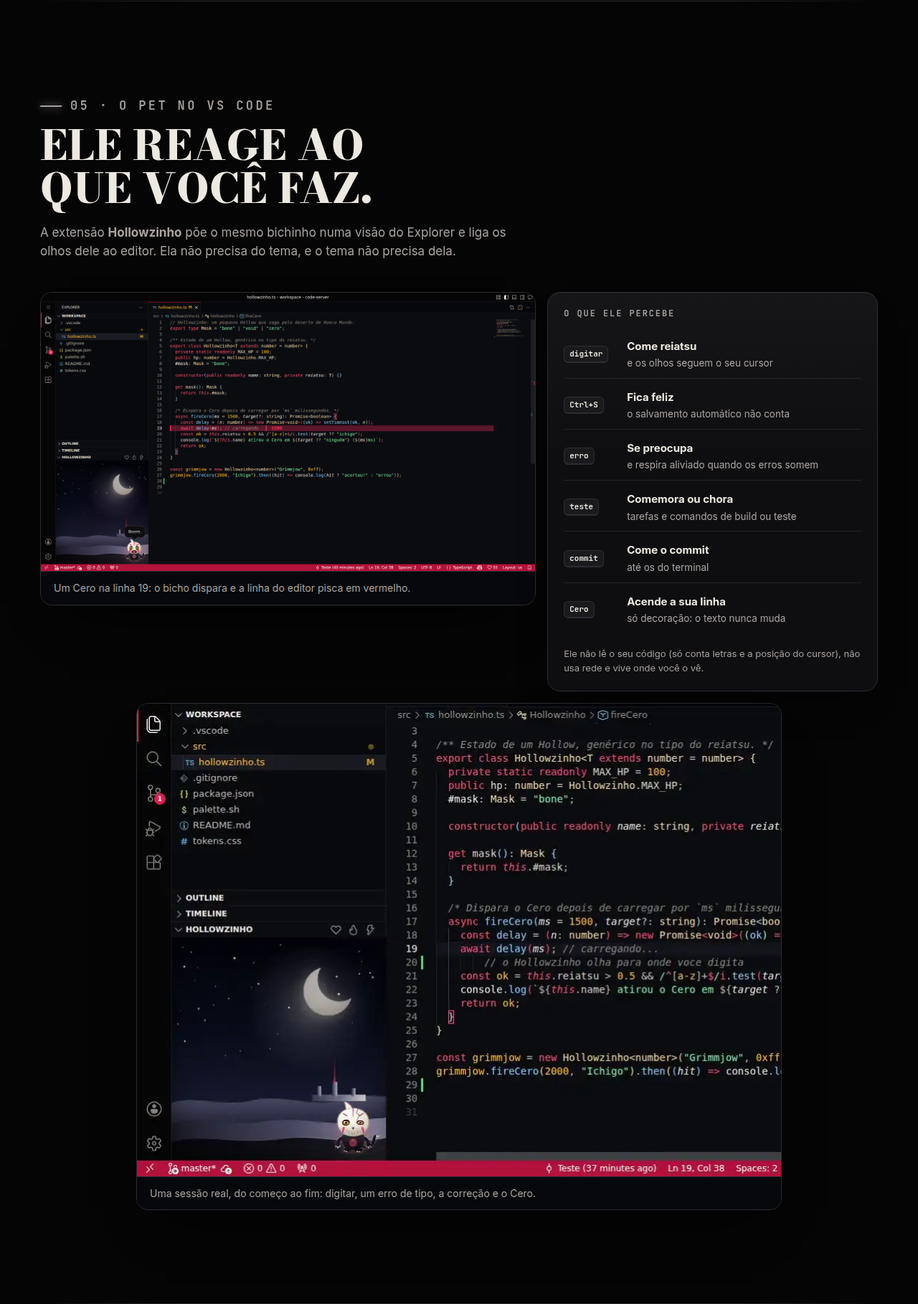
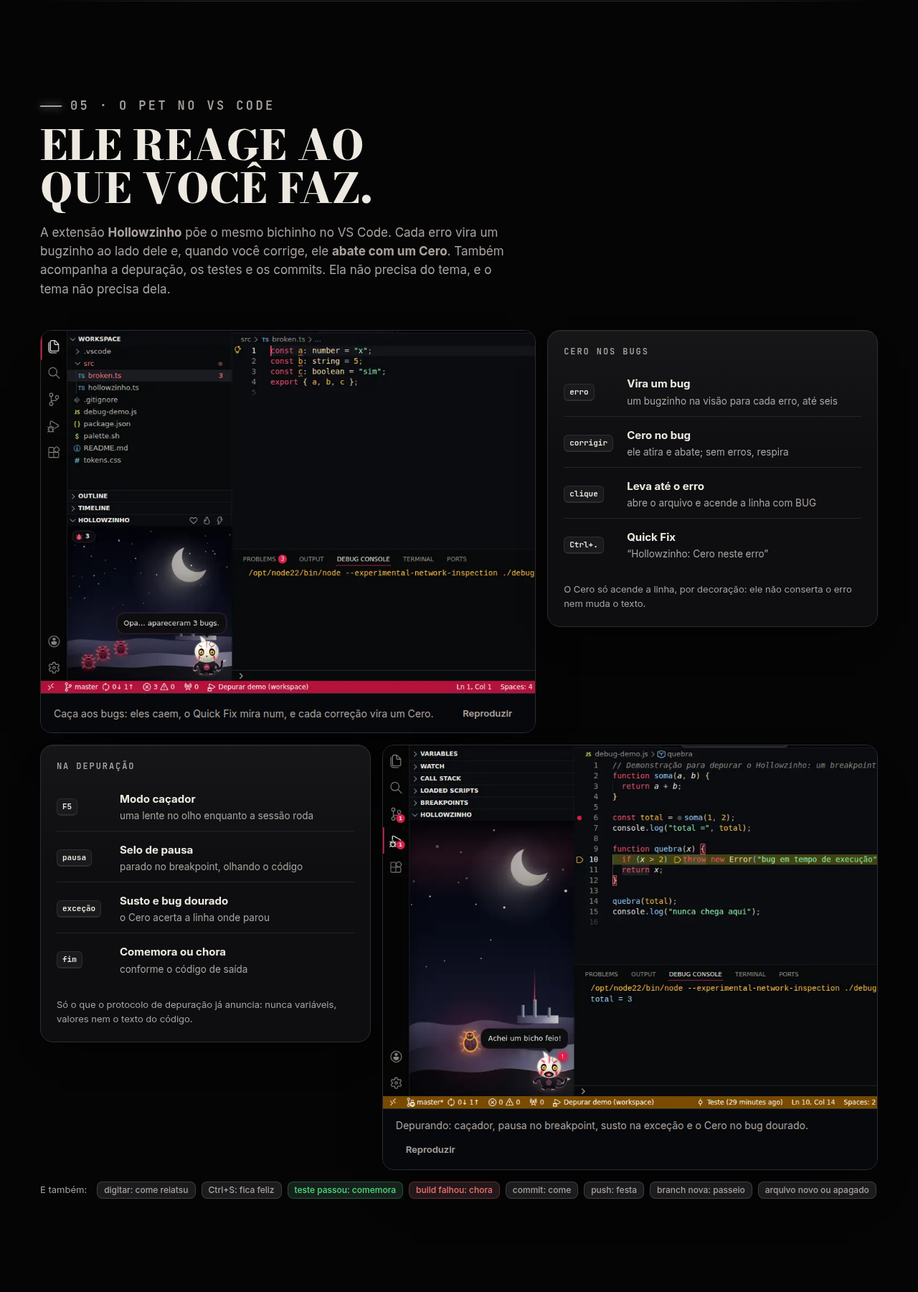
docs: bugs, depuração e Quick Fix nos READMEs, na página e nas gravações
Gravações e prints de um VS Code de verdade com o depurador JavaScript: a caça
aos bugs, o Quick Fix, a pausa, a exceção e o Cero no bug dourado. Os WebP foram
gravados quadro a quadro (screencast em PNG), sem o VP8 do vídeo, que estragava o
degradê escuro da cena. A página ganha dois blocos (bugs e depuração) com botão
de pausar a gravação, que nasce parada com movimento reduzido; o bundle também
embute o `data-poster`. README da extensão reescrito: o que o Cero faz e não faz,
a dica da Barra Lateral Secundária, privacidade, limites e as 19 configurações.
Saem as gravações antigas, que não mostravam os bugs.

Claude-Session: https://claude.ai/code/session_01RdFbfqNsTQthJr1iuE4Xc4

diff --git a/index.html b/index.html
@@ -472,32 +472,56 @@
   <header class="sec-head">
     <p class="hm-eyebrow">05 · O pet no VS Code</p>
     <h2 id="t-vs" class="hm-display">Ele reage ao que você faz.</h2>
-    <p>A extensão <b>Hollowzinho</b> põe o mesmo bichinho numa visão do Explorer e liga os olhos dele ao editor. Ela não precisa do tema, e o tema não precisa dela.</p>
+    <p>A extensão <b>Hollowzinho</b> põe o mesmo bichinho no VS Code. Cada erro vira um bugzinho ao lado dele e, quando você corrige, ele <b>abate com um Cero</b>. Também acompanha a depuração, os testes e os commits. Ela não precisa do tema, e o tema não precisa dela.</p>
   </header>
 
   <div class="vs-grid">
-    <figure class="shot">
-      <img src="vscode/pet/docs/cero.png" width="1600" height="900" loading="lazy" alt="VS Code com o Hollowzinho no Explorer disparando um Cero: a linha 19 do editor pisca em vermelho com a palavra CERO no fim">
-      <figcaption>Um Cero na linha 19: o bicho dispara e a linha do editor pisca em vermelho.</figcaption>
+    <figure class="shot" data-anim data-poster="vscode/pet/docs/bugs-poster.webp">
+      <img src="vscode/pet/docs/bugs.webp" width="900" height="660" loading="lazy" alt="Gravação no VS Code: três bugs caem na visão do pet, um Quick Fix mira num deles, e cada correção vira um Cero que abate o bug até restarem zero">
+      <figcaption>Caça aos bugs: eles caem, o Quick Fix mira num, e cada correção vira um Cero.</figcaption>
     </figure>
     <div class="hm-surface hm-card how">
-      <h3>O que ele percebe</h3>
+      <h3>Cero nos bugs</h3>
       <ul class="how-list">
-        <li><span class="hm-kbd">digitar</span><div><b>Come reiatsu</b><span>e os olhos seguem o seu cursor</span></div></li>
-        <li><span class="hm-kbd">Ctrl+S</span><div><b>Fica feliz</b><span>o salvamento automático não conta</span></div></li>
-        <li><span class="hm-kbd">erro</span><div><b>Se preocupa</b><span>e respira aliviado quando os erros somem</span></div></li>
-        <li><span class="hm-kbd">teste</span><div><b>Comemora ou chora</b><span>tarefas e comandos de build ou teste</span></div></li>
-        <li><span class="hm-kbd">commit</span><div><b>Come o commit</b><span>até os do terminal</span></div></li>
-        <li><span class="hm-kbd">Cero</span><div><b>Acende a sua linha</b><span>só decoração: o texto nunca muda</span></div></li>
+        <li><span class="hm-kbd">erro</span><div><b>Vira um bug</b><span>um bugzinho na visão para cada erro, até seis</span></div></li>
+        <li><span class="hm-kbd">corrigir</span><div><b>Cero no bug</b><span>ele atira e abate; sem erros, respira</span></div></li>
+        <li><span class="hm-kbd">clique</span><div><b>Leva até o erro</b><span>abre o arquivo e acende a linha com BUG</span></div></li>
+        <li><span class="hm-kbd">Ctrl+.</span><div><b>Quick Fix</b><span>“Hollowzinho: Cero neste erro”</span></div></li>
       </ul>
-      <p class="muted small tight">Ele não lê o seu código (só conta letras e a posição do cursor), não usa rede e vive onde você o vê.</p>
+      <p class="muted small tight">O Cero só acende a linha, por decoração: ele não conserta o erro nem muda o texto.</p>
     </div>
   </div>
 
-  <figure class="shot shot--wide">
-    <img src="vscode/pet/docs/demo.webp" width="900" height="660" loading="lazy" alt="Gravação de uma sessão no VS Code: o bicho olha o cursor enquanto se digita, se preocupa com um erro de tipo, respira quando ele é corrigido e dispara um Cero na linha">
-    <figcaption>Uma sessão real, do começo ao fim: digitar, um erro de tipo, a correção e o Cero.</figcaption>
-  </figure>
+  <div class="vs-grid vs-grid--flip">
+    <div class="hm-surface hm-card how">
+      <h3>Na depuração</h3>
+      <ul class="how-list">
+        <li><span class="hm-kbd">F5</span><div><b>Modo caçador</b><span>uma lente no olho enquanto a sessão roda</span></div></li>
+        <li><span class="hm-kbd">pausa</span><div><b>Selo de pausa</b><span>parado no breakpoint, olhando o código</span></div></li>
+        <li><span class="hm-kbd">exceção</span><div><b>Susto e bug dourado</b><span>o Cero acerta a linha onde parou</span></div></li>
+        <li><span class="hm-kbd">fim</span><div><b>Comemora ou chora</b><span>conforme o código de saída</span></div></li>
+      </ul>
+      <p class="muted small tight">Só o que o protocolo de depuração já anuncia: nunca variáveis, valores nem o texto do código.</p>
+    </div>
+    <figure class="shot" data-anim data-poster="vscode/pet/docs/debug-poster.webp">
+      <img src="vscode/pet/docs/debug.webp" width="900" height="660" loading="lazy" alt="Gravação de uma depuração no VS Code: o pet em modo caçador, o breakpoint, o passo, a exceção com o susto e o bug dourado, e o Cero que o abate">
+      <figcaption>Depurando: caçador, pausa, susto na exceção e Cero no bug dourado.</figcaption>
+    </figure>
+  </div>
+
+  <div class="vs-more">
+    <p class="muted small">E também:</p>
+    <ul class="row chips" aria-label="Outras reações">
+      <li class="hm-chip">digitar: come reiatsu</li>
+      <li class="hm-chip">Ctrl+S: fica feliz</li>
+      <li class="hm-chip hm-chip--ok">teste passou: comemora</li>
+      <li class="hm-chip hm-chip--danger">build falhou: chora</li>
+      <li class="hm-chip">commit: come</li>
+      <li class="hm-chip">push: festa</li>
+      <li class="hm-chip">branch nova: passeio</li>
+      <li class="hm-chip">arquivo novo ou apagado</li>
+    </ul>
+  </div>
 </section>
 
 <!-- ═════════════ INSTALAR ═════════════ -->

diff --git a/site/site.js b/site/site.js
@@ -260,6 +260,26 @@
     wrap.appendChild(b);
   });
 
+  /* ───────── gravações do VS Code: pausa e movimento reduzido ───────── */
+  $$("figure[data-anim]").forEach((fig) => {
+    const img = $("img", fig);
+    const poster = fig.dataset.poster;
+    if (!img || !poster) return;
+    const moving = img.getAttribute("src");
+    const b = document.createElement("button");
+    b.type = "button";
+    b.className = "hm-btn hm-btn--sm hm-btn--ghost anim-toggle";
+    const set = (on) => {
+      img.src = on ? moving : poster;
+      b.textContent = on ? "Pausar" : "Reproduzir";
+      b.setAttribute("aria-label", on ? "Pausar a gravação" : "Reproduzir a gravação");
+      b.dataset.on = on ? "1" : "";
+    };
+    b.addEventListener("click", () => set(!b.dataset.on));
+    ($("figcaption", fig) || fig).appendChild(b);
+    set(!reduce);
+  });
+
   /* ───────── controles do pet ───────── */
   (function pet() {
     const main = $("hollow-pet:not([inline])");

diff --git a/site/site.css b/site/site.css
@@ -663,6 +663,41 @@ h3 + .row {
   max-width: 900px;
   margin-inline: auto;
 }
+.vs-grid + .vs-grid,
+.vs-more {
+  margin-top: 16px;
+}
+.vs-grid--flip {
+  grid-template-columns: minmax(0, 1fr) minmax(0, 1.5fr);
+}
+.vs-more {
+  display: flex;
+  flex-wrap: wrap;
+  align-items: center;
+  gap: 8px 14px;
+}
+.vs-more p {
+  margin: 0;
+}
+.vs-more .chips {
+  display: flex;
+  flex-wrap: wrap;
+  gap: 8px;
+  margin: 0;
+  padding: 0;
+  list-style: none;
+}
+/* gravações do VS Code: o botão (na legenda) pausa a animação, e com movimento reduzido ela já nasce parada */
+.shot[data-anim] figcaption {
+  display: flex;
+  flex-wrap: wrap;
+  align-items: center;
+  justify-content: space-between;
+  gap: 8px 14px;
+}
+.anim-toggle {
+  flex: none;
+}
 .legend .ansi {
   padding: 18px 0 0;
 }
@@ -723,8 +758,12 @@ h3 + .row {
 }
 @media (max-width: 980px) {
   .shots-2,
-  .vs-grid {
+  .vs-grid,
+  .vs-grid--flip {
     grid-template-columns: 1fr;
+  }
+  .vs-grid--flip .shot {
+    order: -1;
   }
 }
 

diff --git a/vscode/pet/README.md b/vscode/pet/README.md
@@ -1,35 +1,78 @@
 # Hollowzinho para o VS Code
 
-Um Hollow de estimação que mora na barra lateral do VS Code. Ele olha para onde você digita, come o reiatsu do seu código, se preocupa quando aparece um erro, comemora quando o teste passa, devora seus commits e, quando você pedir, dispara um **Cero** que acende a linha em que você está.
+Um Hollow de estimação que mora no VS Code. Ele olha para onde você digita, **transforma cada erro num bugzinho e abate com um Cero quando você corrige**, acompanha a depuração (caça, pausa, susto na exceção), comemora o teste que passa e devora os seus commits.
 
-![O Hollowzinho no Explorer e o Cero acendendo uma linha do editor](https://github.com/juninmd/hueco-mundo-theme/raw/HEAD/vscode/pet/docs/cero.png)
+![O Hollowzinho no Explorer com três bugs ao lado dele, um para cada erro do arquivo aberto](https://github.com/juninmd/hueco-mundo-theme/raw/HEAD/vscode/pet/docs/bugs.png)
 
 Não precisa do tema Hueco Mundo (mas combina) e não depende de mais nada. O bichinho em si é o [`<hollow-pet>`](https://github.com/juninmd/hueco-mundo-theme/tree/HEAD/pet), um web component independente.
 
-## O que ele faz
+## O Cero acerta os bugs?
+
+Acerta, e a mira é real: cada **erro** que o VS Code lista em *Problemas* vira um bugzinho na visão do pet (até 6, e o número total aparece num selo). O Cero sai do bicho e acende a linha do erro com a palavra `BUG`.
+
+![Sessão no VS Code: três bugs caem na visão, um Quick Fix mira num deles e cada correção vira um Cero que abate o bug](https://github.com/juninmd/hueco-mundo-theme/raw/HEAD/vscode/pet/docs/bugs.webp)
+
+| Quando | O que acontece |
+| --- | --- |
+| Aparecem erros | Os bugs caem na visão e ele avisa: *"Opa… apareceram 3 bugs."* |
+| **Você corrige** um erro | Ele atira no bug dele, que explode: *"Bug abatido!"*. Sem mais erros: *"Sem bugs! Respirei."* |
+| Você **clica num bug** | O editor vai até o erro (abre o arquivo e põe o cursor lá) e o Cero acende a linha |
+| **Quick Fix** (`Ctrl+.`) num erro | Aparece *Hollowzinho: Cero neste erro*; ele atira nesse erro sem mexer no seu cursor |
+| `Hollowzinho: Cero at the next error` | Vai ao próximo erro (começando pelo arquivo aberto) e atira nele |
+| `hollowzinho.autoCero` = `newErrors` | Atira sozinho em cada erro novo (padrão: só em exceções do depurador) |
+
+![O Quick Fix com a opção Hollowzinho: Cero neste erro, e os três bugs ao lado do pet](https://github.com/juninmd/hueco-mundo-theme/raw/HEAD/vscode/pet/docs/quickfix.png)
+
+**O que o Cero não faz:** ele não conserta nada. O raio só *raspa* o bug e acende a linha (é uma decoração que some em menos de um segundo e nunca altera o texto). Quem some com o erro é você; o bicho só abate o bug quando o erro realmente desaparece.
+
+![O Cero atravessando a visão para abater um bug, no instante em que um erro é corrigido](https://github.com/juninmd/hueco-mundo-theme/raw/HEAD/vscode/pet/docs/bug-cero.png)
+
+## Depuração
+
+Ele acompanha a sessão pelo que o protocolo de depuração já anuncia, em qualquer linguagem e depurador:
+
+| No depurador | No pet |
+| --- | --- |
+| A sessão começa | **Modo caçador**: uma lente sobre o olho e um varrer de luz no deserto |
+| Você põe um breakpoint | Fica empolgado |
+| Para num breakpoint | Fica parado, com o **selo de pausa**, e olha para o código |
+| Você dá um passo | Acompanha com o olhar e continua parado na linha seguinte |
+| Para numa **exceção** | **Susto** (pula e mostra um `!`), um **bug dourado** aparece na visão e o Cero acerta a linha onde ela parou |
+| Retoma (`F5`) | Volta ao modo caçador, e o bug dourado vai embora |
+| A sessão termina | Saída `0`: comemora. Saída com erro: fica chateado. Se havia uma exceção parada, ele a abate: *"Bug abatido!"* |
+
+![Depuração: o pet em modo caçador, o breakpoint, o susto na exceção com o bug dourado e o Cero que o abate](https://github.com/juninmd/hueco-mundo-theme/raw/HEAD/vscode/pet/docs/debug.webp)
+
+| Pausa | Exceção | Cero na exceção |
+| --- | --- | --- |
+| ![Parado no breakpoint, com o selo de pausa](https://github.com/juninmd/hueco-mundo-theme/raw/HEAD/vscode/pet/docs/debug-pausa.png) | ![Susto e o bug dourado](https://github.com/juninmd/hueco-mundo-theme/raw/HEAD/vscode/pet/docs/debug-excecao.png) | ![O Cero acerta o bug dourado](https://github.com/juninmd/hueco-mundo-theme/raw/HEAD/vscode/pet/docs/debug-cero.png) |
+
+> **Dica:** ao depurar, o VS Code troca a barra lateral para *Executar e Depurar*, e o Explorer (com o pet) some. Por isso o Hollowzinho tem uma segunda visão lá, que abre sozinha na primeira depuração. O lugar mais confortável é a **Barra Lateral Secundária** (`Ctrl+Alt+B`): arraste a visão **Hollowzinho** para lá e ele fica à vista o tempo todo.
+
+## E o resto?
 
 | Você faz | Ele faz |
 | --- | --- |
 | Digita | Come reiatsu a cada letra (sem digitar, ele fica com fome) e os olhos seguem o seu cursor |
 | Salva com `Ctrl+S` | Fica feliz (o salvamento automático não conta, ou ele viveria em festa) |
-| Aparece um erro | Se preocupa. Quando os erros somem, respira aliviado |
+| Só há avisos (*warnings*) | Fica atento, sem se alarmar |
 | Uma tarefa ou um comando de build/teste termina | Passou: comemora com um Cero para cima. Falhou: fica chateado |
 | Faz um commit | Come o commit (o vínculo cresce) |
-| Pede um Cero | Dispara em direção ao editor e **a sua linha pisca em vermelho** por menos de um segundo |
+| Faz um push | Festa |
+| Cria ou troca de branch | Vai passear |
+| Cria um arquivo, ou apaga | Fica empolgado (*"Arquivo novo! Nham."*) ou chateado (*"Tchau, arquivo…"*) |
+| Volta à janela depois de mais de 10 minutos | Acorda e te recebe |
+| `Hollowzinho: Cero at the current line` | Dispara, e a sua linha pisca em vermelho com `CERO` |
 
-![Preocupado com um erro e aliviado quando ele some](<https://github.com/juninmd/hueco-mundo-theme/raw/HEAD/vscode/pet/docs/reacoes.png>)
+![O Cero acendendo uma linha do editor](https://github.com/juninmd/hueco-mundo-theme/raw/HEAD/vscode/pet/docs/cero.png)
 
-Gravação de uma sessão real no VS Code (digitar, um erro de tipo, a correção e um Cero na linha):
-
-![Sessão no VS Code: o bicho olha o cursor, se preocupa com o erro, respira quando some e dispara o Cero](<https://github.com/juninmd/hueco-mundo-theme/raw/HEAD/vscode/pet/docs/demo.webp>)
-
-Também dá para brincar com ele direto: passar o mouse abre a bandeja, clicar faz carinho, segurar carrega um Cero, arrastar muda de canto. Com vínculo ele evolui: Hollow, Adjuchas e Vasto Lorde. O reiatsu aparece na barra de status.
+Também dá para brincar com ele direto: passar o mouse abre a bandeja, clicar faz carinho, segurar carrega um Cero, arrastar muda de canto. Com vínculo ele evolui: Hollow, Adjuchas e Vasto Lorde. O reiatsu aparece na barra de status e, passando o mouse sobre ela, quantos bugs ele já abateu.
 
 ## Onde ele fica
 
-Na visão **Hollowzinho**, no fim do Explorer. Ela abre sozinha na primeira vez. Como qualquer visão do VS Code, pode ser arrastada: coloque na **Barra Lateral Secundária** (`Ctrl+Alt+B`) para ele continuar à vista mesmo com o Explorer fechado, ou no Painel. Em visões baixas o balão e a bandeja ficam ao lado dele; com mais altura, ficam em cima.
+Na visão **Hollowzinho**, no fim do Explorer. Ela abre sozinha na primeira vez. Como qualquer visão do VS Code, pode ser arrastada: a **Barra Lateral Secundária** (`Ctrl+Alt+B`) é a melhor casa, porque continua à vista com o Explorer fechado e durante a depuração. Em visões baixas o balão e a bandeja ficam ao lado dele; com mais altura, ficam em cima.
 
-Ele só reage enquanto a visão está aberta e visível.
+Ele só reage enquanto uma das visões está aberta e visível. Sem o pet à vista, o comando de Cero ainda acende a linha, e uma exceção no depurador deixa uma pista na barra de status.
 
 ## Comandos
 
@@ -39,7 +82,7 @@ Todos na paleta de comandos (`Ctrl+Shift+P`), com o prefixo **Hollowzinho**:
 | --- | --- |
 | `Hollowzinho: Pet` / `Feed` | Carinho e comida |
 | `Hollowzinho: Cero at the current line` | Cero na linha do cursor (em cada cursor, se houver vários) |
-| `Hollowzinho: Cero at the next error` | Vai até o próximo erro e dispara nele |
+| `Hollowzinho: Cero at the next error` | Vai até o próximo erro e atira nele |
 | `Hollowzinho: Sleep or wake up` | Dorme ou acorda |
 | `Hollowzinho: Change corner` | Troca de canto |
 | `Hollowzinho: Show` / `Start over` | Chama de volta, ou recomeça do zero |
@@ -47,7 +90,7 @@ Todos na paleta de comandos (`Ctrl+Shift+P`), com o prefixo **Hollowzinho**:
 Nenhum vem com atalho, para não brigar com os seus. Para ligar o Cero a uma tecla, em `keybindings.json`:
 
 ```json
-{ "key": "ctrl+alt+c", "command": "hollowzinho.cero", "when": "editorTextFocus" }
+{ "key": "ctrl+alt+c", "command": "hollowzinho.ceroError" }
 ```
 
 ## Configurações
@@ -62,26 +105,33 @@ Nenhum vem com atalho, para não brigar com os seus. Para ligar o Cero a uma tec
 | `hollowzinho.editorSide` | `auto` | De que lado fica o editor, para o Cero sair e o olhar ir para lá |
 | `hollowzinho.chatter` | `low` | Quanto ele fala sozinho: `off`, `low` ou `normal` |
 | `hollowzinho.sleepAfterMinutes` | `5` | Minutos sem digitar até dormir; `0` nunca |
+| `hollowzinho.bugs` | `true` | Um bugzinho na visão para cada erro (até 6). Desligado, ficam só as reações |
+| `hollowzinho.autoCero` | `exceptions` | Quando ele atira sozinho: `off`, `exceptions` (exceção parada no depurador) ou `newErrors` (também em cada erro novo) |
+| `hollowzinho.quickFix` | `true` | A opção *Hollowzinho: Cero neste erro* no menu de correção rápida |
 | `hollowzinho.reactToEditing` | `true` | Digitar, olhar o cursor e salvar com `Ctrl+S` |
-| `hollowzinho.reactToDiagnostics` | `true` | Erros que aparecem e somem |
+| `hollowzinho.reactToDiagnostics` | `true` | Erros que aparecem e somem (e os bugs) |
+| `hollowzinho.reactToDebug` | `true` | A depuração: caça, pausa, passos, exceções |
 | `hollowzinho.reactToTasks` | `true` | Tarefas e comandos de build/teste no terminal |
-| `hollowzinho.reactToGit` | `true` | Commits |
-| `hollowzinho.editorEffects` | `true` | A linha do editor piscar quando ele dispara o Cero |
+| `hollowzinho.reactToGit` | `true` | Commit, push e branch |
+| `hollowzinho.reactToWorkspace` | `true` | Arquivos criados ou apagados e a volta à janela |
+| `hollowzinho.editorEffects` | `true` | A linha do editor piscar quando ele atira |
 | `hollowzinho.statusBar` | `true` | O reiatsu na barra de status |
 
 A cor do brilho do Cero no editor é o tema de cor `hollowzinho.ceroCore`, que o seu tema pode sobrescrever.
 
 ## Privacidade e limites
 
-- Ele **não lê o conteúdo do seu código**: só conta quantos caracteres você digitou e onde está o cursor. Nada sai da sua máquina, não há rede nem telemetria. O que ele guarda (reiatsu, vínculo, canto) fica no armazenamento global do VS Code.
-- O Cero **nunca altera o texto**: a linha acende por decoração e a decoração some sozinha. Com `workbench.reduceMotion` ligado, é um único clarão, sem animação.
-- No terminal, ele só reage a comandos que parecem de build ou teste (`test`, `build`, `tsc`, `cargo`, `make`, `pytest`…), e para isso o VS Code precisa estar com a *shell integration* ativa (versão 1.93 ou mais nova). Tarefas (`tasks.json`) sempre valem.
+- Ele **não lê o conteúdo do seu código**. Nos editores, só conta quantos caracteres você digitou e onde está o cursor. Os erros são lidos da lista de *Problemas* (mensagem, arquivo e linha) dentro da extensão, só para reconhecer cada um e acertar a linha; para o desenho vai apenas um identificador. Na depuração, só lê o que o protocolo já anuncia: parou, retomou, saiu (com o código de saída) e, numa exceção, o arquivo e a linha do topo da pilha. Nunca variáveis, valores nem texto de código.
+- Nada sai da sua máquina, não há rede nem telemetria. O que ele guarda (reiatsu, vínculo, canto, quantos bugs abateu) fica no armazenamento global do VS Code.
+- O Cero **nunca altera o texto**: a linha acende por decoração, que some sozinha. Com `workbench.reduceMotion` ligado, é um único clarão, sem animação.
+- No terminal, ele só reage a comandos que parecem de build ou teste (`test`, `build`, `tsc`, `cargo`, `make`, `pytest`…), e para isso o VS Code precisa estar com a *shell integration* ativa (1.93 ou mais nova). Tarefas (`tasks.json`) sempre valem. O painel **Testes** do VS Code não expõe os resultados a outras extensões: por ele só vale o que passar por uma sessão de depuração, uma tarefa ou o terminal.
 - Commits feitos no terminal também contam: ele percebe o commit novo na mesma branch.
+- Só erros viram bugs; avisos (*warnings*) não. Os bugs seguem os *Problemas* do VS Code: se o seu servidor de linguagem não reporta, não há bug.
 - Funciona em espaços de trabalho não confiáveis e virtuais.
 
 ## In English
 
-A pet Hollow (from Bleach) that lives in the VS Code side bar. Its eyes follow your cursor, typing feeds it, errors worry it, passing tests make it celebrate, commits are food, and on command it fires a **Cero** that flashes the line you are on. It reads no code (only counts typed characters and cursor position), needs no network, and never edits your text. Language follows VS Code (`hollowzinho.language`); see the settings above.
+A pet Hollow (from Bleach) that lives in VS Code. Every **error** in the Problems list becomes a little bug beside it, and when you fix the error the pet **shoots it down with a Cero** (it flashes the line with `BUG`; click a bug, use the Quick Fix *Hollowzinho: Cero at this error*, or run *Cero at the next error* to aim at one). It follows **debugging** (hunter mode while a session runs, a pause seal at breakpoints, a scare and a golden boss bug on an exception, with an automatic Cero on the line), celebrates passing builds, eats commits and reacts to pushes, new branches and files. It reads no code, needs no network and never edits your text. Language follows VS Code (`hollowzinho.language`); see the settings above. Tip: debugging swaps the side bar to *Run and Debug*, so a second Hollowzinho view lives there; the Secondary Side Bar (`Ctrl+Alt+B`) keeps it in sight all the time.
 
 ## Licença
 

diff --git a/README.md b/README.md
@@ -28,7 +28,7 @@ São quatro peças **independentes**: use qualquer uma sozinha.
 | 🎨 **Tema para a web** | [`theme/`](theme) | Tokens `--hm-*`, componentes `hm-*` (botões, campos, abas, selos, progresso, avisos…) e as fontes. Só CSS. |
 | 👾 **Hollowzinho** | [`pet/`](pet) | `<hollow-pet>`: um Hollow de estimação num web component, sem dependências e **sem nenhuma ligação com o tema**. Olha o cursor, aceita carinho, come, dorme, evolui e dispara um Cero. |
 | 🧑💻 **Tema do VS Code** | [`vscode/theme`](vscode/theme) | 309 cores de interface, 29 regras de sintaxe, realce semântico e a paleta ANSI do terminal. |
-| 🐾 **Hollowzinho no VS Code** | [`vscode/pet`](vscode/pet) | Extensão que põe o pet no Explorer e o liga ao editor: ele olha o seu cursor, se preocupa com erros, comemora testes, come commits e dispara um Cero que acende a linha em que você está. |
+| 🐾 **Hollowzinho no VS Code** | [`vscode/pet`](vscode/pet) | Extensão que põe o pet no VS Code: cada erro vira um bugzinho que ele **abate com o Cero** quando você corrige, ele acompanha a **depuração** (pausa, susto na exceção), comemora testes, come commits e olha o seu cursor. |
 
 E a página de demonstração, [`index.html`](index.html), para ver tudo funcionando (e brincar com o pet).
 
@@ -36,13 +36,23 @@ E a página de demonstração, [`index.html`](index.html), para ver tudo funcion
 
 ### O pet dentro do VS Code
 
-Prints e gravação de um VS Code de verdade (1.117) com as duas extensões instaladas.
+Prints e gravações de um VS Code de verdade (1.117) com as duas extensões instaladas, e do depurador JavaScript de verdade.
+
+<img src="vscode/pet/docs/bugs.png" alt="VS Code com o Hollowzinho no Explorer e três bugzinhos ao lado dele, um para cada um dos três erros do arquivo aberto" width="100%">
+
+**Cero nos bugs.** Cada erro vira um bug na visão; ao corrigir, o pet atira e abate. Também dá para mirar por um clique no bug, pelo Quick Fix ou por um comando.
+
+<img src="vscode/pet/docs/bugs.webp" alt="Gravação: três bugs caem na visão do pet, um Quick Fix mira num deles, e cada correção vira um Cero que abate o bug até restarem zero" width="100%">
+
+**Depuração.** Caçador enquanto a sessão roda, selo de pausa no breakpoint, susto e um bug dourado na exceção, que o Cero abate.
+
+<img src="vscode/pet/docs/debug.webp" alt="Gravação de uma depuração: o pet em modo caçador, o breakpoint, o passo, a exceção com o susto e o bug dourado, e o Cero que o abate" width="100%">
+
+| Quick Fix | Pausa no breakpoint | Exceção | Cero na exceção |
+|---|---|---|---|
+| <img src="vscode/pet/docs/quickfix.png" alt="Menu de correção rápida com a opção Hollowzinho: Cero neste erro e os três bugs ao lado do pet"> | <img src="vscode/pet/docs/debug-pausa.png" alt="Depurador parado na linha 6 e o pet com o selo de pausa"> | <img src="vscode/pet/docs/debug-excecao.png" alt="Exceção na linha 10: o pet assustado, com um ponto de exclamação, e um bug dourado na visão"> | <img src="vscode/pet/docs/debug-cero.png" alt="O Cero acerta o bug dourado da exceção"> |
 
 <img src="vscode/pet/docs/cero.png" alt="VS Code com o Hollowzinho no Explorer disparando um Cero: a linha 19 do editor pisca em vermelho, com a palavra CERO no fim" width="100%">
-
-<img src="vscode/pet/docs/demo.webp" alt="Gravação de uma sessão: o bicho olha o cursor enquanto se digita, se preocupa com um erro de tipo, respira quando ele é corrigido e dispara um Cero na linha" width="100%">
-
-<img src="vscode/pet/docs/reacoes.png" alt="À esquerda, o pet preocupado com 'Opa… apareceu um erro' e um erro na barra de status; à direita, aliviado, com 'Sem erros! Respirei.' e zero erros" width="100%">
 
 ### Tema no VS Code
 
@@ -131,7 +141,7 @@ npx @vscode/vsce package
 code --install-extension hollowzinho-0.1.0.vsix   # a visão "Hollowzinho" abre no Explorer
 ```
 
-Os comandos, as 14 configurações e o que ele percebe estão em [`vscode/pet/README.md`](vscode/pet/README.md). Nenhuma das duas extensões está publicada no Marketplace.
+Os comandos, as 19 configurações e o que ele percebe estão em [`vscode/pet/README.md`](vscode/pet/README.md). Nenhuma das duas extensões está publicada no Marketplace.
 
 **Tudo num arquivo**: `npm run bundle` gera `dist/hueco-mundo.html` (CSS, JS, fontes e prints embutidos).
 
@@ -186,14 +196,17 @@ Para quem integra: `look(x, y)`, `mood(humor, texto)`, `celebrate()` e `nibble(n
 
 | Você faz | Ele faz |
 |---|---|
+| aparece um **erro** | vira um bugzinho na visão do pet (até 6, com o total num selo); ele avisa |
+| **corrige** o erro | atira o Cero no bug e o abate; sem erros, respira |
+| clica num bug, **Quick Fix** (`Ctrl+.`) ou `Cero at the next error` | vai até o erro e acende a linha com `BUG` (só decoração: o texto nunca muda) |
+| **depura** | caçador (lente no olho) enquanto roda; selo de pausa no breakpoint; na **exceção**, susto, um bug dourado e um Cero na linha onde parou |
 | digita | come reiatsu e os olhos seguem o cursor |
 | salva com `Ctrl+S` | fica feliz |
-| aparece um erro | se preocupa; respira quando some |
 | uma tarefa ou um comando de build/teste termina | comemora com um Cero para cima, ou fica chateado |
-| faz um commit (inclusive no terminal) | come o commit |
-| `Hollowzinho: Cero at the current line` | dispara, e a sua linha pisca em vermelho (só decoração: o texto nunca muda) |
+| commit (inclusive no terminal), push, branch nova, arquivo novo ou apagado, volta à janela | come, festeja, passeia, se empolga ou se entristece, recebe você |
+| `Hollowzinho: Cero at the current line` | dispara, e a sua linha pisca em vermelho com `CERO` |
 
-Ele não lê o seu código (só conta letras e a posição do cursor), não usa rede, guarda o estado no armazenamento global do VS Code e só reage enquanto a visão está aberta. Foi testado num VS Code 1.117 de verdade (via code-server): digitar, olhar, salvar, erros, tarefas, terminal, commit, comandos, configurações ao vivo e persistência. Não foi testado no desktop do Windows nem do macOS.
+Ele não lê o seu código (só conta letras e a posição do cursor; nos erros e na depuração só enxerga mensagem, arquivo e linha, e nunca variáveis nem valores), não usa rede, guarda o estado no armazenamento global do VS Code e só reage enquanto uma das duas visões (Explorer e *Executar e Depurar*) está à vista; a Barra Lateral Secundária é a melhor casa para ele. O Cero **não conserta** nada: quem some com o erro é você. Foi testado num VS Code 1.117 de verdade (via code-server), com o depurador JavaScript de verdade: digitar, olhar, salvar, erros e bugs, Quick Fix, breakpoint, passo, exceção, tarefas, terminal, commit, comandos, configurações ao vivo e persistência. O painel **Testes** do VS Code não expõe resultados a outras extensões, então "teste passou" vem de tarefas e do terminal. Não foi testado no desktop do Windows nem do macOS.
 
 ## Acessibilidade
 
@@ -207,7 +220,7 @@ Ele não lê o seu código (só conta letras e a posição do cursor), não usa 
 ```sh
 npm install        # só o Playwright, para os scripts (na primeira vez: npx playwright install chromium)
 npm run serve      # a página em http://127.0.0.1:8080
-npm test           # cópia do pet na extensão + contraste + 53 verificações do pet num navegador de verdade
+npm test           # cópia do pet na extensão + contraste + 24 verificações da extensão + 61 do pet num navegador de verdade
 npm run sync       # copia pet/hollow-pet.js para vscode/pet/media (e a licença para as extensões)
 npm run shots      # refaz docs/shots/
 npm run demo       # regrava docs/shots/pet-demo.webp (precisa do ffmpeg)
@@ -219,9 +232,9 @@ theme/      tokens.css, hueco-mundo.css, fonts.css, fonts/
 pet/        hollow-pet.js (+ .d.ts), README, demo.html, lab.html (estados)
 vscode/
   theme/    extensão com o tema de cores
-  pet/      extensão do Hollowzinho (extension.js + media/)
+  pet/      extensão do Hollowzinho (extension.js, lib/ e media/)
 site/       CSS e JS da página de demonstração
-scripts/    contrast, pet-smoke, sync-vscode, shots, demo, bundle, pet-icon, serve
+scripts/    contrast, pet-smoke, ext-test, sync-vscode, shots, demo, bundle, pet-icon, serve
 docs/shots/ os prints da página
 index.html  a página de demonstração (serve para o GitHub Pages direto da raiz)
 ```
